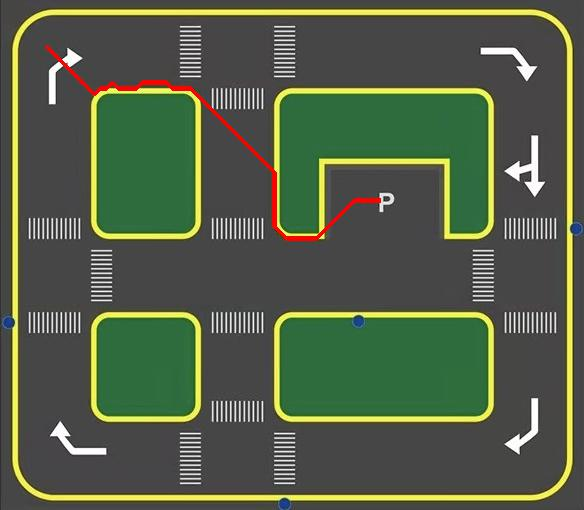
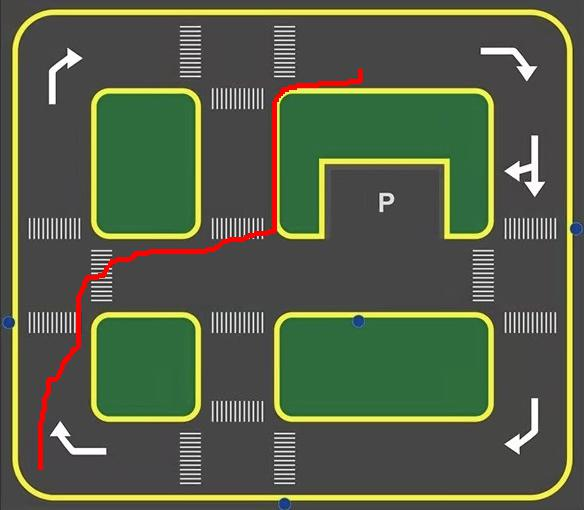
modified path planner algorithm 0509

diff --git a/backend/path_planner.py b/backend/path_planner.py
@@ -5,142 +5,199 @@ from PIL import Image, ImageDraw
 from utils import *
 
 class Node:
-    def __init__(self, x, y, cost=0, parent=None):
+    def __init__(self, x, y, high, cost=0, parent=None):
         self.x = x
-        self.y = y
+        self.y = high - y - 1  # Coordinate transformation to make the origin at the bottom left
         self.cost = cost
         self.parent = parent
-    
+        self.high = high
+
     def __eq__(self, other):
-        # 比较节点是否相等，需要根据坐标来判断
-        return (self.x == other.x) and (self.y == other.y)
-    
+        return self.x == other.x and self.y == other.y
+
     def __hash__(self):
-        # 使得Node对象可哈希，以便在set中使用
         return hash((self.x, self.y))
-    
+
     def __lt__(self, other):
-        # 比较两个节点的成本，用于优先队列中的排序
         return self.cost < other.cost
-    
+
     def __add__(self, other):
-        # 实现节点的加法，便于计算移动后的新节点
-        return Node(self.x + other[0], self.y + other[1], self.cost, self)
-    
+        return Node(self.x + other[0], self.high - (self.y + other[1]) - 1, self.high, self.cost, self)
+
     def __sub__(self, other):
-        # 用于计算两个节点之间的启发式距离
         return abs(self.x - other.x) + abs(self.y - other.y)
 
 class NodeQueue:
     def __init__(self):
         self.elements = []
-    
+        self.elements_set = set()
+
     def empty(self):
         return len(self.elements) == 0
-    
+
     def put(self, node):
         heapq.heappush(self.elements, node)
-    
-    def get(self):
-        return heapq.heappop(self.elements)
+        self.elements_set.add(node)
 
+    def get(self):
+        node = heapq.heappop(self.elements)
+        self.elements_set.remove(node)
+        return node
+
+    def __contains__(self, node):
+        return node in self.elements_set
 
 class AStar:
-    """A*算法"""
-    def __init__(self, start_pos, end_pos, map_array, move_step=3, move_direction=8):
-        self.map_array = map_array  # H * W
-        self.width = self.map_array.shape[1]
-        self.high = self.map_array.shape[0]
-        self.start = Node(*start_pos)  # 初始位置
-        self.end = Node(*end_pos)      # 结束位置
-
-        # Check if the start and end nodes are within the map boundaries
-        if not self._in_map(self.start) or not self._in_map(self.end):
-            raise ValueError(f"X coordinate range should be 0 to {self.width-1}, Y coordinate range should be 0 to {self.high-1}")
-        # Check if the start node is colliding with an obstacle
-        if self._is_collided(self.start):
-            raise ValueError("The starting node's x or y coordinate is on an obstacle")
-        # Check if the end node is colliding with an obstacle
-        if self._is_collided(self.end):
-            raise ValueError("The ending node's x or y coordinate is on an obstacle")
-
-        
-        self.reset(move_step, move_direction)
-
-    def reset(self, move_step=3, move_direction=8):
-        self.move_step = move_step
-        self.move_direction = move_direction
-        self.close_set = set()
+    def __init__(self, start_pos, end_pos, map_array, high):
+        self.map_array = map_array
+        self.width = map_array.shape[1]
+        self.height = map_array.shape[0]
+        self.start = Node(*start_pos, high)
+        self.end = Node(*end_pos, high)
         self.open_queue = NodeQueue()
-        self.path_list = []
+        self.came_from = {}
+        self.g_score = {self.start: 0}
+        self.f_score = {self.start: self.start - self.end}
+        self.close_set = set()
+
+    def heuristic(self, a, b):
+        return abs(a.x - b.x) + abs(a.y - b.y)
 
     def _in_map(self, node):
-        return 0 <= node.x < self.width and 0 <= node.y < self.high
-    
-    def _is_collided(self, node):
-        return self.map_array[node.y, node.x] == 1  # 障碍物是1
-    
-    def _move(self):
-        @lru_cache(maxsize=3)
-        def _move_cached(move_step, move_direction):
-            moves = [
-                (0, move_step),        # 上
-                (0, -move_step),       # 下
-                (-move_step, 0),       # 左
-                (move_step, 0),        # 右
-                (move_step, move_step), # 右上
-                (move_step, -move_step), # 右下
-                (-move_step, move_step), # 左上
-                (-move_step, -move_step) # 左下
-            ]
-            return moves[:move_direction]
-        return _move_cached(self.move_step, self.move_direction)
+        return 0 <= node.x < self.width and 0 <= node.y < self.height
 
-    def _update_open_list(self, curr):
-        for add in self._move():
-            next_ = curr + add
-            if not self._in_map(next_) or self._is_collided(next_) or next_ in self.close_set:
-                continue
-            H = next_ - self.end
-            next_.cost += H
-            self.open_queue.put(next_)
-            if H < 20:
-                self.move_step = 1
+    def _is_collided(self, node):
+        return self.map_array[node.y, node.x] == 1
+
+    def _move(self):
+        return [
+            (0, 1),  # up
+            (1, 0),  # right
+            (0, -1), # down
+            (-1, 0)  # left
+        ]
 
     def __call__(self):
-        self.open_queue.put(self.start)
+        self.open_queue.put((self.f_score[self.start], self.start))
+        
         while not self.open_queue.empty():
-            curr = self.open_queue.get()
-            curr.cost -= (curr - self.end)
-            self._update_open_list(curr)
-            self.close_set.add(curr)
-            if curr == self.end:
-                break
-        while curr.parent is not None:
-            self.path_list.append(curr)
-            curr = curr.parent
-        self.path_list.reverse()
-        return self.path_list
+            current = self.open_queue.get()[1]
+            
+            if current == self.end:
+                return self.reconstruct_path(current)
+            
+            self.close_set.add(current)
+            for move in self._move():
+                neighbor = current + move
+                if neighbor in self.close_set or not self._in_map(neighbor) or self._is_collided(neighbor) or neighbor in self.close_set:
+                    continue
+                
+                tentative_g_score = self.g_score[current] + 1
+                if neighbor not in self.g_score or tentative_g_score < self.g_score[neighbor]:
+                    self.came_from[neighbor] = current
+                    self.g_score[neighbor] = tentative_g_score
+                    self.f_score[neighbor] = tentative_g_score + self.heuristic(neighbor, self.end)
+                    if neighbor not in self.open_queue:
+                        self.open_queue.put((self.f_score[neighbor], neighbor))
+        
+        return []
+
+    def reconstruct_path(self, current):
+        total_path = [current]
+        while current in self.came_from:
+            current = self.came_from[current]
+            total_path.append(current)
+        return total_path[::-1]
+
+
     
 
 class PathPlanner:
-    def __init__(self, map_path):
-        self.grid = np.loadtxt(map_path, dtype=int)
+    def __init__(self, grid):
+        self.grid = grid
 
     def plan(self, current_loc, destination_loc):
-        #size = (292,255)，两维的坐标第一个是横坐标，第二个是纵坐标，起始坐标可以设置成（20，20），车库坐标（190，100）
-        planner = AStar(start_pos=current_loc, end_pos=destination_loc, map_array=self.grid)
+        height = self.grid.shape[0]
+        planner = AStar(start_pos=current_loc, end_pos=destination_loc, map_array=self.grid, high=height)
         path = planner()
-        path = list(map(lambda x:(x.x, x.y), path))
-        path = [current_loc] + path
-        return path
+        path = list(map(lambda x: (x.x, height - x.y - 1), path))  # 转换回常规坐标系以进行绘图等操作
+
+        # 初始化方向列表和当前朝向
+        directions = []
+        if len(path) > 1:
+            # 初始朝向设置为从第一步到第二步的方向
+            current_direction = (path[1][0] - path[0][0], path[1][1] - path[0][1])
+
+            # 对后续的每一步计算转向
+            for i in range(1, len(path)):
+                if i == 1:
+                    directions.append('forward')  # 第一步默认为前进
+                    continue
+                next_direction = (path[i][0] - path[i-1][0], path[i][1] - path[i-1][1])
+
+                if next_direction == current_direction:
+                    directions.append('forward')
+                elif next_direction == (-current_direction[0], -current_direction[1]):
+                    directions.append('backward')
+                elif next_direction == (-current_direction[1], current_direction[0]):
+                    directions.append('left')
+                elif next_direction == (current_direction[1], -current_direction[0]):
+                    directions.append('right')
+                else:
+                    directions.append('none')  # 在异常情况下，添加“none”
+
+                # 更新当前朝向
+                current_direction = next_direction
+
+            return path, directions
+        else:
+            return path, ['none']  # 如果路径中没有移动或只有一个位置
 
 
+
+def main():
+    grid = np.loadtxt('data/grid.txt', dtype=int)
+    path_planner = PathPlanner(grid)
+    
+    start_pos = (20, 20)
+    end_pos = (180, 220)
+
+    # 检查起点和终点是否在障碍物上
+    if check_obstacle(grid, start_pos[0], start_pos[1], grid.shape[0]):
+        print("起点在障碍物上！")
+    else:
+        print("起点ok")
+
+    if check_obstacle(grid, end_pos[0], end_pos[1], grid.shape[0]):
+        print("终点在障碍物上！")
+    else:
+        print("终点ok")
+
+    # 如果起点和终点都不在障碍物上，则进行路径规划
+    if not check_obstacle(grid, start_pos[0], start_pos[1], grid.shape[0]) and not check_obstacle(grid, end_pos[0], end_pos[1], grid.shape[0]):
+        
+        ######
+
+        #重点在这里readme！！！
+        #方向有:"forward", "backward", "left", "right"
+        #返回两个列表path, direction，path里面是每一步的坐标，direction里面是每一步的方向
+        
+        ######
+
+        path, direction = path_planner.plan(start_pos, end_pos)
+        if path:
+            # 绘制路径到图像
+            image_path = 'data/Map.jpg'  # 确保使用正确的图像文件名
+            output_path = 'data/Map_plan.jpg'
+            draw_path_on_image(image_path, path, output_path)
+            print("Path coordinates:")
+            for node in path:
+                #print(1)
+                print(f"({node[0]}, {node[1]})")  # 输出转换后的坐标
+        else:
+            print("No path found.")
+        print(path)
+        print(direction)
 
 if __name__ == "__main__":
-    path_planner = PathPlanner("data/grid.txt")
-    path = path_planner.plan((40, 40), (270, 232))
-    print(path)
-
-
-    
+    main()

diff --git a/backend/utils.py b/backend/utils.py
@@ -42,7 +42,8 @@ def draw_path_on_image(image_path, path , output_path , line_color=(255, 0, 0), 
     
     draw = ImageDraw.Draw(image)
     #这里得按照cell的大小缩放一下
-    adjusted_path = [(node.x * 2, node.y * 2) for node in path]
+    adjusted_path = [(x * 2, (image.height - (y * 2)) - 1) for x, y in path]
+    #adjusted_path = [(x * 2, y * 2) for x, y in path]
     draw.line(adjusted_path, fill=line_color, width=line_width)
 
     image.save(output_path)
@@ -82,3 +83,24 @@ def identify_obstacles(image_path, grid_size):
 
     np.savetxt('grid.txt', grid, fmt="%d")  # 保存网格数据为文本文件
     return grid
+
+def check_obstacle(map_array, x, y, high):
+    # 调整 y 坐标来匹配 AStar 中使用的坐标系统
+    actual_y = high - y - 1
+    return map_array[actual_y, x] == 1
+
+
+
+
+def draw_map(grid, path=None):
+    import matplotlib.pyplot as plt
+
+    fig, ax = plt.subplots(figsize=(8, 6))
+    ax.imshow(grid, cmap='Greys', origin='lower')  # 使左下角为原点
+
+    if path:
+        # 从 Node 对象中提取 x 和 y 坐标
+        xs, ys = zip(*[(node.x, node.y) for node in path])
+        ax.plot(xs, ys, marker='o', color='red')  # 绘制路径
+
+    plt.show()
